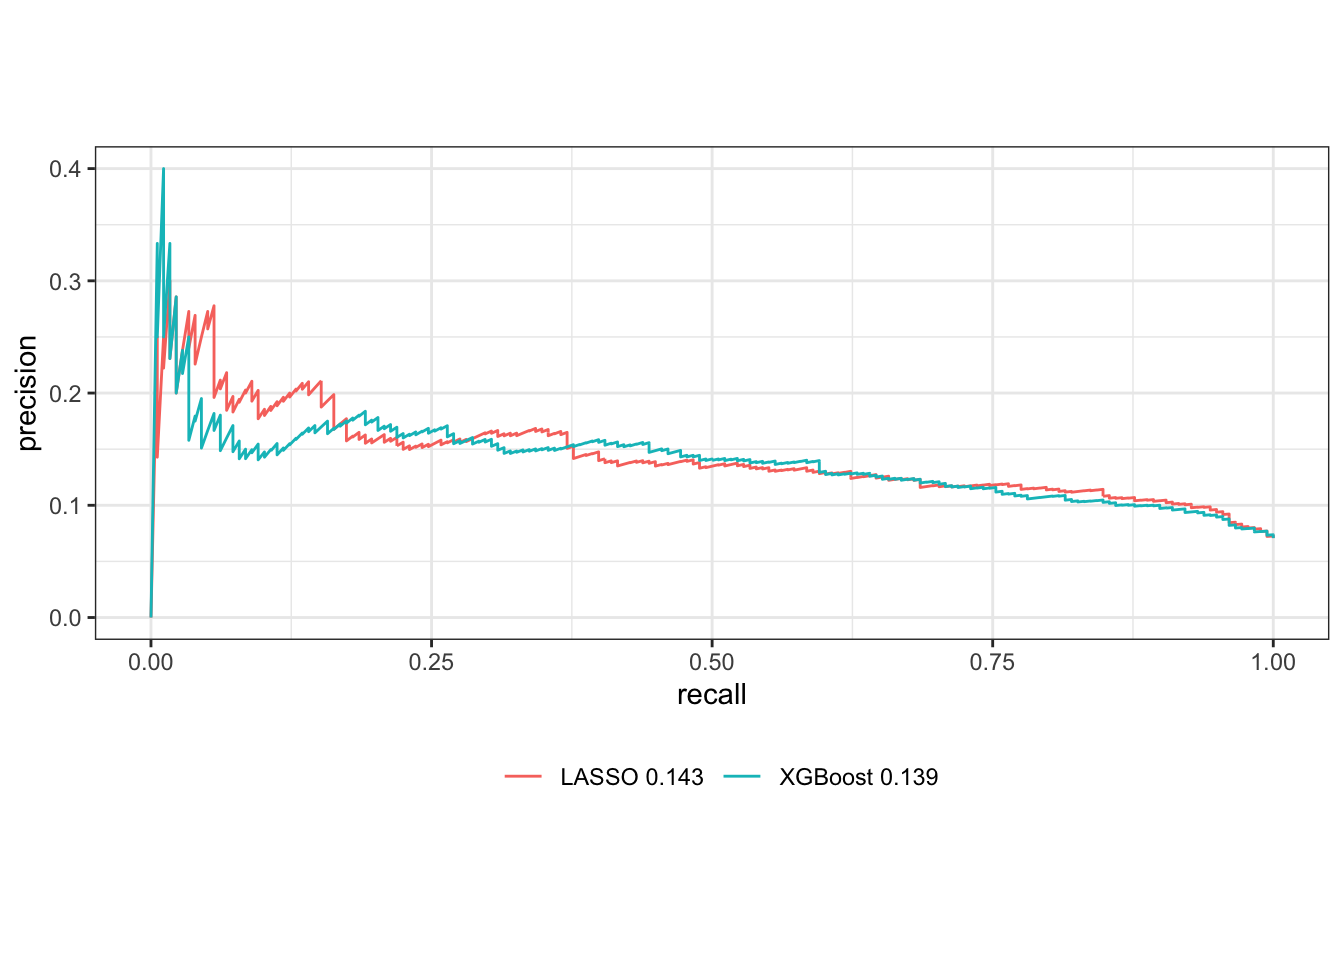
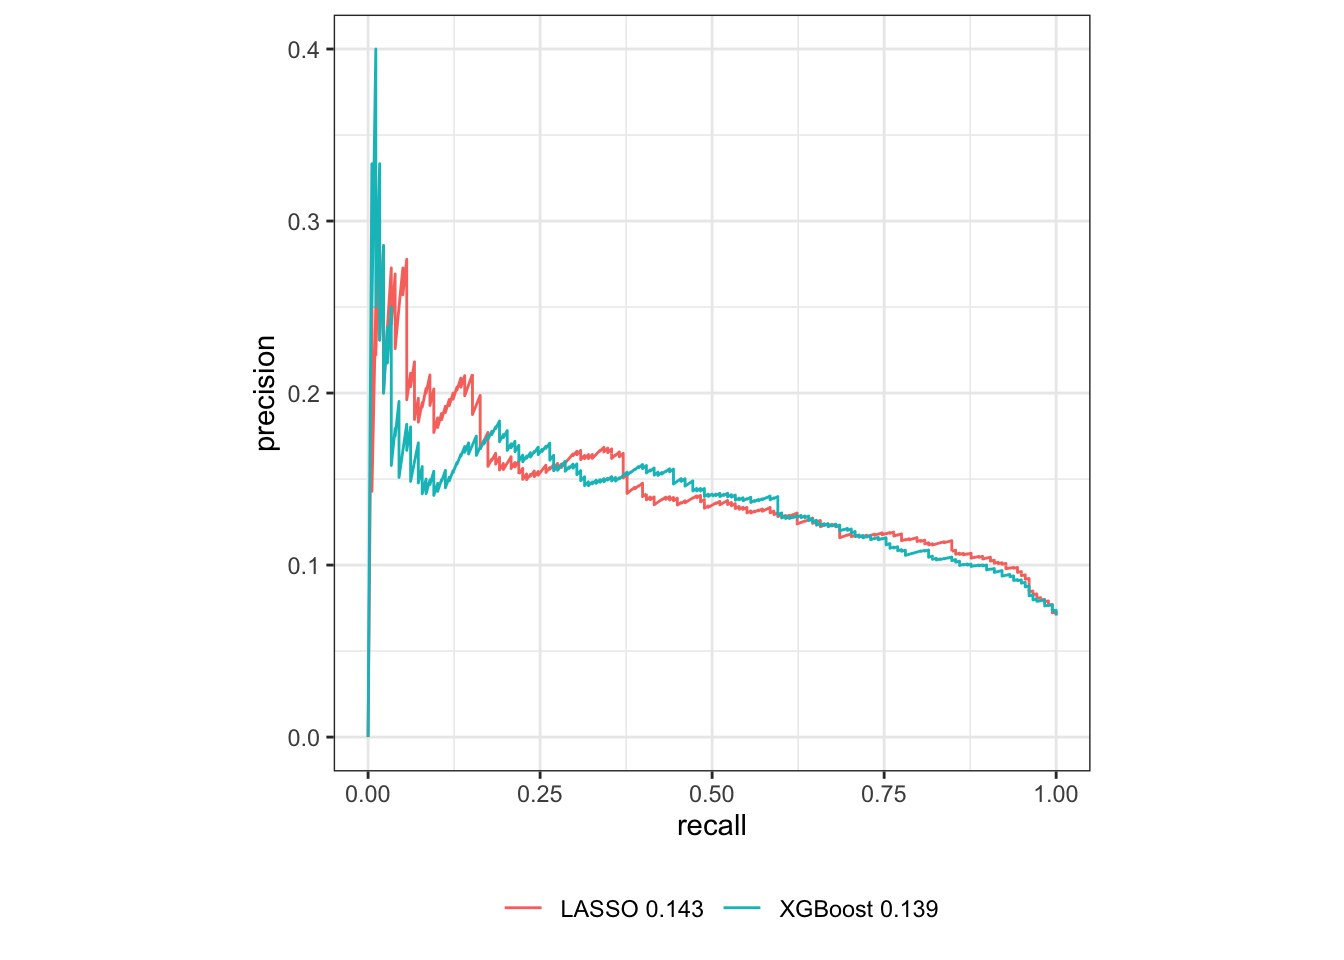
Built site for gh-pages

diff --git a/index.html b/index.html
@@ -153,19 +153,19 @@ div.csl-indent {
 <dl class="code-annotation-container-grid">
 <dt data-target-cell="annotated-cell-1" data-target-annotation="1">1</dt>
 <dd>
-<span data-code-annotation="1" data-code-lines="1" data-code-cell="annotated-cell-1">Set a seed, for constant results</span>
+<span data-code-cell="annotated-cell-1" data-code-annotation="1" data-code-lines="1">Set a seed, for constant results</span>
 </dd>
 <dt data-target-cell="annotated-cell-1" data-target-annotation="2">2</dt>
 <dd>
-<span data-code-annotation="2" data-code-lines="2" data-code-cell="annotated-cell-1">Make the split object for training / testing</span>
+<span data-code-cell="annotated-cell-1" data-code-annotation="2" data-code-lines="2">Make the split object for training / testing</span>
 </dd>
 <dt data-target-cell="annotated-cell-1" data-target-annotation="3">3</dt>
 <dd>
-<span data-code-annotation="3" data-code-lines="3,4" data-code-cell="annotated-cell-1">Create the train / test data</span>
+<span data-code-cell="annotated-cell-1" data-code-annotation="3" data-code-lines="3,4">Create the train / test data</span>
 </dd>
 <dt data-target-cell="annotated-cell-1" data-target-annotation="4">4</dt>
 <dd>
-<span data-code-annotation="4" data-code-lines="5" data-code-cell="annotated-cell-1">Create a cross validation train set</span>
+<span data-code-cell="annotated-cell-1" data-code-annotation="4" data-code-lines="5">Create a cross validation train set</span>
 </dd>
 </dl>
 </div>
@@ -585,7 +585,7 @@ ID:          1</code></pre>
 <span id="cb51-42"><a href="#cb51-42" aria-hidden="true" tabindex="-1"></a>         <span class="sc">!</span><span class="fu">is.infinite</span>(precision)) <span class="sc">%&gt;%</span></span>
 <span id="cb51-43"><a href="#cb51-43" aria-hidden="true" tabindex="-1"></a>  <span class="fu">ggplot</span>(<span class="fu">aes</span>(<span class="at">x =</span> recall, <span class="at">y =</span> precision, <span class="at">color =</span> model)) <span class="sc">+</span></span>
 <span id="cb51-44"><a href="#cb51-44" aria-hidden="true" tabindex="-1"></a>  <span class="fu">geom_path</span>() <span class="sc">+</span></span>
-<span id="cb51-45"><a href="#cb51-45" aria-hidden="true" tabindex="-1"></a>  <span class="fu">coord_equal</span>() <span class="sc">+</span></span>
+<span id="cb51-45"><a href="#cb51-45" aria-hidden="true" tabindex="-1"></a>  <span class="fu">coord_equal</span>(<span class="at">ratio =</span> <span class="dv">1</span><span class="sc">/</span><span class="fl">0.4</span>) <span class="sc">+</span></span>
 <span id="cb51-46"><a href="#cb51-46" aria-hidden="true" tabindex="-1"></a>  <span class="fu">theme_bw</span>() <span class="sc">+</span></span>
 <span id="cb51-47"><a href="#cb51-47" aria-hidden="true" tabindex="-1"></a>  <span class="fu">theme</span>(<span class="at">legend.position =</span> <span class="st">"bottom"</span>,</span>
 <span id="cb51-48"><a href="#cb51-48" aria-hidden="true" tabindex="-1"></a>        <span class="at">legend.title =</span> <span class="fu">element_blank</span>())</span></code><button title="Copy to Clipboard" class="code-copy-button"><i class="bi"></i></button></pre></div>

diff --git a/longevity.html b/longevity.html
@@ -153,19 +153,19 @@ div.csl-indent {
 <dl class="code-annotation-container-grid">
 <dt data-target-cell="annotated-cell-1" data-target-annotation="1">1</dt>
 <dd>
-<span data-code-annotation="1" data-code-lines="1" data-code-cell="annotated-cell-1">Set a seed, for constant results</span>
+<span data-code-cell="annotated-cell-1" data-code-annotation="1" data-code-lines="1">Set a seed, for constant results</span>
 </dd>
 <dt data-target-cell="annotated-cell-1" data-target-annotation="2">2</dt>
 <dd>
-<span data-code-annotation="2" data-code-lines="2" data-code-cell="annotated-cell-1">Make the split object for training / testing</span>
+<span data-code-cell="annotated-cell-1" data-code-annotation="2" data-code-lines="2">Make the split object for training / testing</span>
 </dd>
 <dt data-target-cell="annotated-cell-1" data-target-annotation="3">3</dt>
 <dd>
-<span data-code-annotation="3" data-code-lines="3,4" data-code-cell="annotated-cell-1">Create the train / test data</span>
+<span data-code-cell="annotated-cell-1" data-code-annotation="3" data-code-lines="3,4">Create the train / test data</span>
 </dd>
 <dt data-target-cell="annotated-cell-1" data-target-annotation="4">4</dt>
 <dd>
-<span data-code-annotation="4" data-code-lines="5" data-code-cell="annotated-cell-1">Create a cross validation train set</span>
+<span data-code-cell="annotated-cell-1" data-code-annotation="4" data-code-lines="5">Create a cross validation train set</span>
 </dd>
 </dl>
 </div>
@@ -585,7 +585,7 @@ ID:          1</code></pre>
 <span id="cb51-42"><a href="#cb51-42" aria-hidden="true" tabindex="-1"></a>         <span class="sc">!</span><span class="fu">is.infinite</span>(precision)) <span class="sc">%&gt;%</span></span>
 <span id="cb51-43"><a href="#cb51-43" aria-hidden="true" tabindex="-1"></a>  <span class="fu">ggplot</span>(<span class="fu">aes</span>(<span class="at">x =</span> recall, <span class="at">y =</span> precision, <span class="at">color =</span> model)) <span class="sc">+</span></span>
 <span id="cb51-44"><a href="#cb51-44" aria-hidden="true" tabindex="-1"></a>  <span class="fu">geom_path</span>() <span class="sc">+</span></span>
-<span id="cb51-45"><a href="#cb51-45" aria-hidden="true" tabindex="-1"></a>  <span class="fu">coord_equal</span>() <span class="sc">+</span></span>
+<span id="cb51-45"><a href="#cb51-45" aria-hidden="true" tabindex="-1"></a>  <span class="fu">coord_equal</span>(<span class="at">ratio =</span> <span class="dv">1</span><span class="sc">/</span><span class="fl">0.4</span>) <span class="sc">+</span></span>
 <span id="cb51-46"><a href="#cb51-46" aria-hidden="true" tabindex="-1"></a>  <span class="fu">theme_bw</span>() <span class="sc">+</span></span>
 <span id="cb51-47"><a href="#cb51-47" aria-hidden="true" tabindex="-1"></a>  <span class="fu">theme</span>(<span class="at">legend.position =</span> <span class="st">"bottom"</span>,</span>
 <span id="cb51-48"><a href="#cb51-48" aria-hidden="true" tabindex="-1"></a>        <span class="at">legend.title =</span> <span class="fu">element_blank</span>())</span></code><button title="Copy to Clipboard" class="code-copy-button"><i class="bi"></i></button></pre></div>
